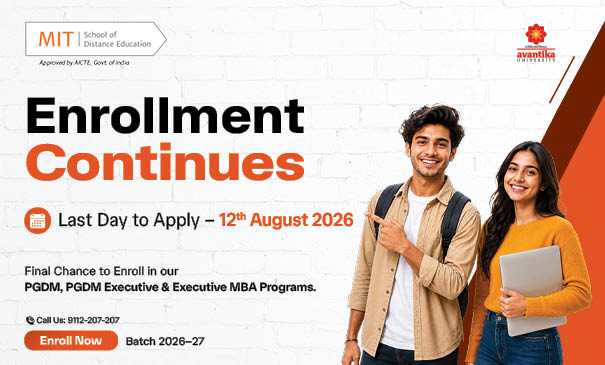
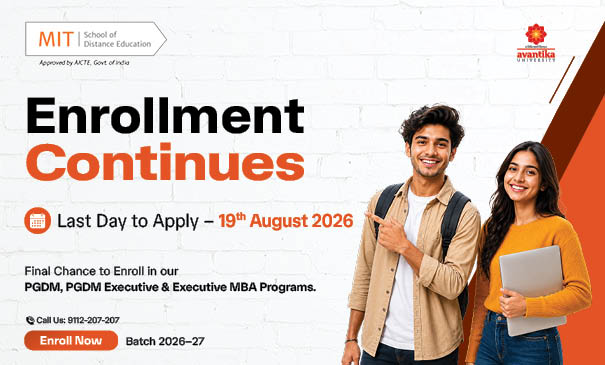
change in last date 18 aug

Changed region(s): [[0.0893, 0.5726, 0.595, 0.6329]]

diff --git a/announcementUpdate.php b/announcementUpdate.php
@@ -2,7 +2,7 @@
     <div class="container">
         <div class="row">
             <div class="ann-box">
-                <p style="font-size: 15.5px;">Last Day Left! Apply before <span class="blinklastdate"> 12th August 2026
+                <p style="font-size: 15.5px;">Last Day Left! Apply before <span class="blinklastdate"> 19th August 2026
                     </span> to enroll in the final batch. Call now:<a href="tel:9112207207"
                         style="text-decoration: none; padding: 0px !important;"> 9112-207-207</a> <a href="roi" style="color: white; font-weight: 400;">Calculate Your Career ROI in 30 Seconds →</a>
                     </p>
